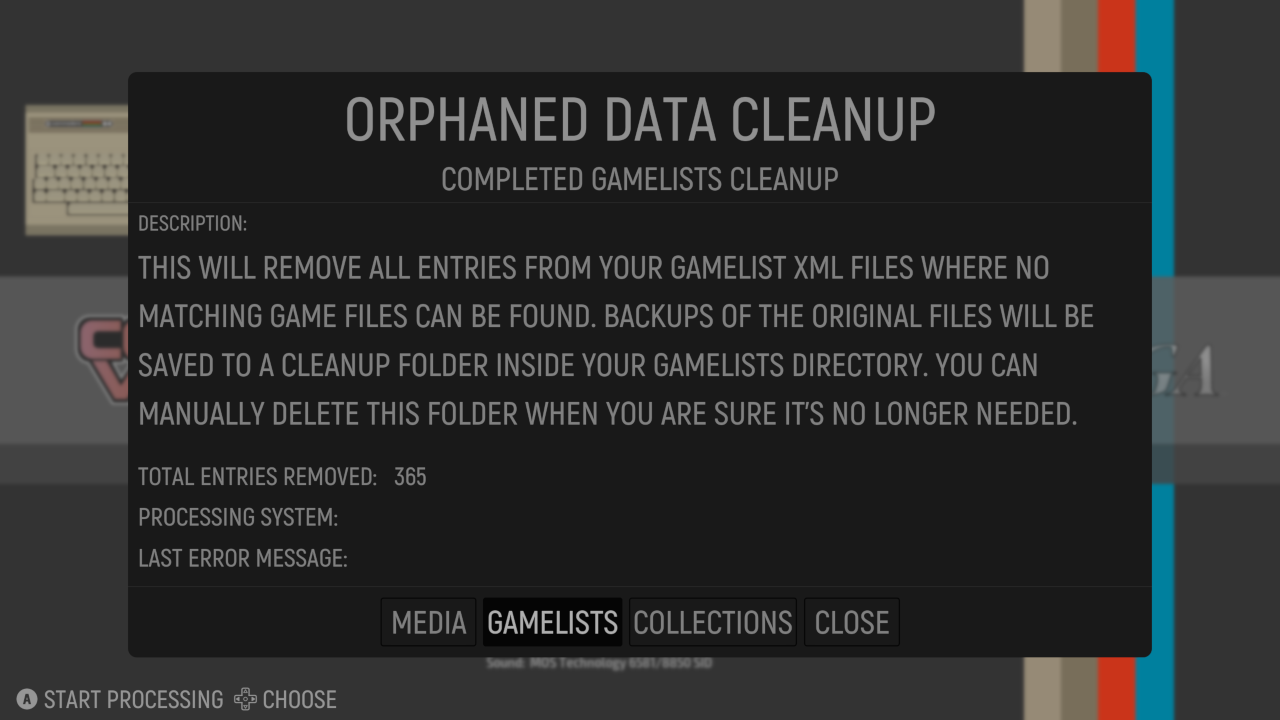
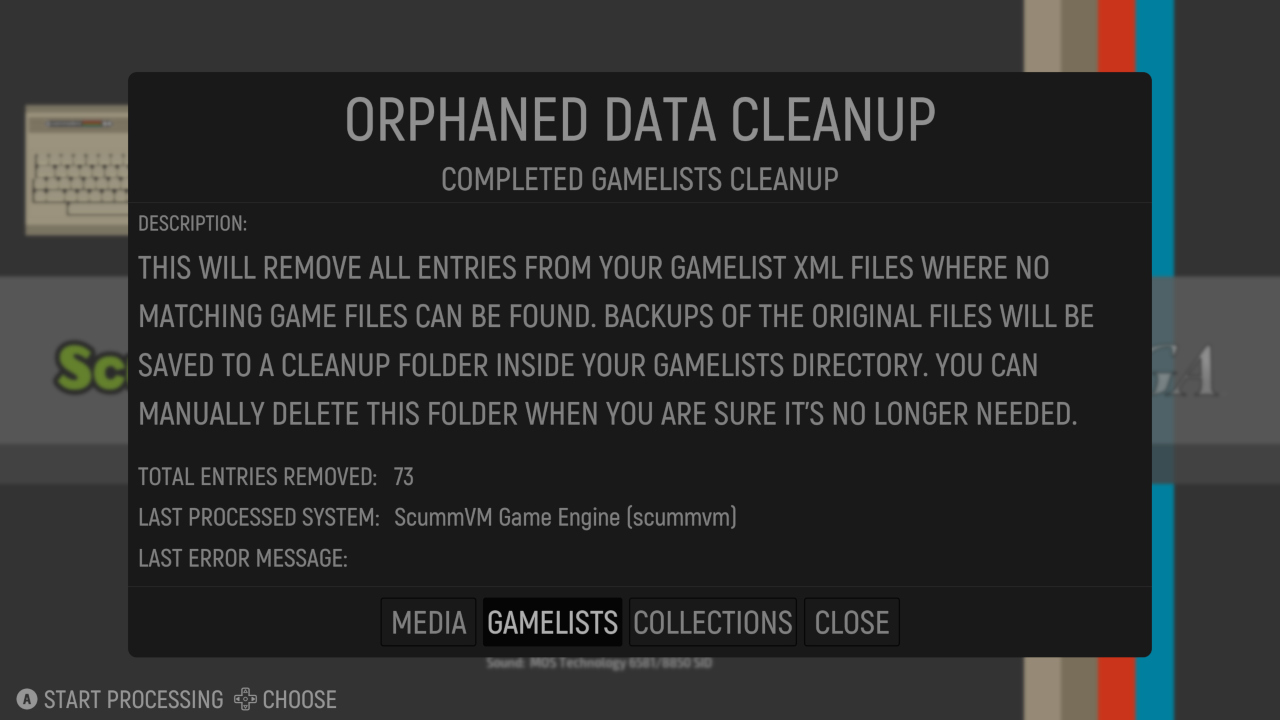
Documentation update

Changed region(s): [[0.0938, 0.7028, 0.5938, 0.7333], [0.0312, 0.4278, 0.125, 0.55], [0.3125, 0.6417, 0.3438, 0.6722]]

diff --git a/INSTALL-DEV.md b/INSTALL-DEV.md
@@ -480,7 +480,7 @@ This can take quite a while as multiple packages are downloaded and compiled. It
 
 Re-running macOS_dependencies_setup.sh will delete and download all dependencies again, and re-running macOS_dependencies_build.sh will clean and rebuild all packages. If you want to recompile a single package, make sure to first set the MACOSX_DEPLOYMENT_TARGET variable:
 ```
-export MACOSX_DEPLOYMENT_TARGET=10.14
+export MACOSX_DEPLOYMENT_TARGET=10.15
 ```
 
 Then manually recompile the package, for example:
@@ -552,9 +552,7 @@ Running ES-DE from the build directory may be a bit flaky as there is no Info.pl
 
 **Code signing**
 
-Due to the Apple notarization requirement implemented as of macOS 10.14.5 a build with simple code signing is needed for versions up to 10.13 and another build with both code signing and notarization is required for version 10.14 and higher.
-
-macOS code signing is beyond the scope of this document, but the CMake option MACOS_CODESIGN_IDENTITY is used to specify the code signing certificate identity, for example:
+A detailed explanation of macOS code signing is beyond the scope of this document, but the CMake option MACOS_CODESIGN_IDENTITY is used to specify the code signing certificate identity, for example:
 ```
 cmake -DMACOS_CODESIGN_IDENTITY="My Name" .
 ```
@@ -565,14 +563,6 @@ security unlock-keychain
 ```
 
 This is not required if cpack is run from a terminal window started via the desktop interface as the keychain is unlocked as part of the desktop login.
-
-**Legacy build**
-
-Normally ES-DE is meant to be built for macOS 10.14 and higher, but a legacy build for earlier operating system versions can be enabled. This has been tested with a minimum version of 10.11. It's unclear if it works with even older macOS releases.
-
-To enable a legacy build, change the CMAKE_OSX_DEPLOYMENT_TARGET variable in CMakeLists.txt from 10.14 to whatever version you would like to build for. This will disable Hardened Runtime if signing is enabled and it will add "legacy" to the DMG installer filename when running CPack. It will also enable the bundled TLS/SSL certificates. As these older macOS releases are no longer receiving patches from Apple, certificates have likely expired meaning the scraper would not work if the bundled certificates were not used.
-
-You also need to modify es-app/assets/EmulationStation-DE_Info.plist and set the key SMinimumSystemVersion to the version you're building for. And finally CMAKE_OSX_DEPLOYMENT_TARGET needs to be updated in tools/macOS_dependencies_build.sh. This script then needs to be executed to rebuild all dependencies for the configured macOS version.
 
 **Installing**
 

diff --git a/CHANGELOG.md b/CHANGELOG.md
@@ -19,7 +19,11 @@
 * Changed ComponentList to fixed row heights which fixed many alignment issues
 * Improved the layout for the scraper and theme downloader to look more consistent across different display aspect ratios
 * Made the miximage offline generator GUI sizing more consistent across different display aspect ratios
+* Improved menu system font rendering on GPUs without proper texture filtering support
 * Added theme support for the "manual" metadata type for the text element
+* Replaced a number of homecooked functions in FileSystemUtil with those from the C++ standard library
+* (macOS) Changed the minimum required OS version from 10.14 "Mojave" to 10.15 "Catalina"
+* (macOS) Completely removed support for the legacy OS build
 * Updated LunaSVG to 2.3.6
 
 ### Bug fixes

diff --git a/README.md b/README.md
@@ -18,7 +18,7 @@ Two theme sets (Slate and Modern) are bundled with the application, and addition
 
 ## Download
 
-Visit https://es-de.org/ to download ES-DE or go to the [package registry](https://gitlab.com/es-de/emulationstation-de/-/packages) where you can also find all previous releases.
+Visit https://es-de.org/ to download the latest ES-DE release or go to the [package registry](https://gitlab.com/es-de/emulationstation-de/-/packages) where you can also find all previous releases.
 
 If you're using a Raspberry Pi or if you run FreeBSD, NetBSD or OpenBSD then you need to compile from source code as no prebuilt packages are provided for these platforms. A detailed build guide is available in [INSTALL.md](INSTALL.md).
 
